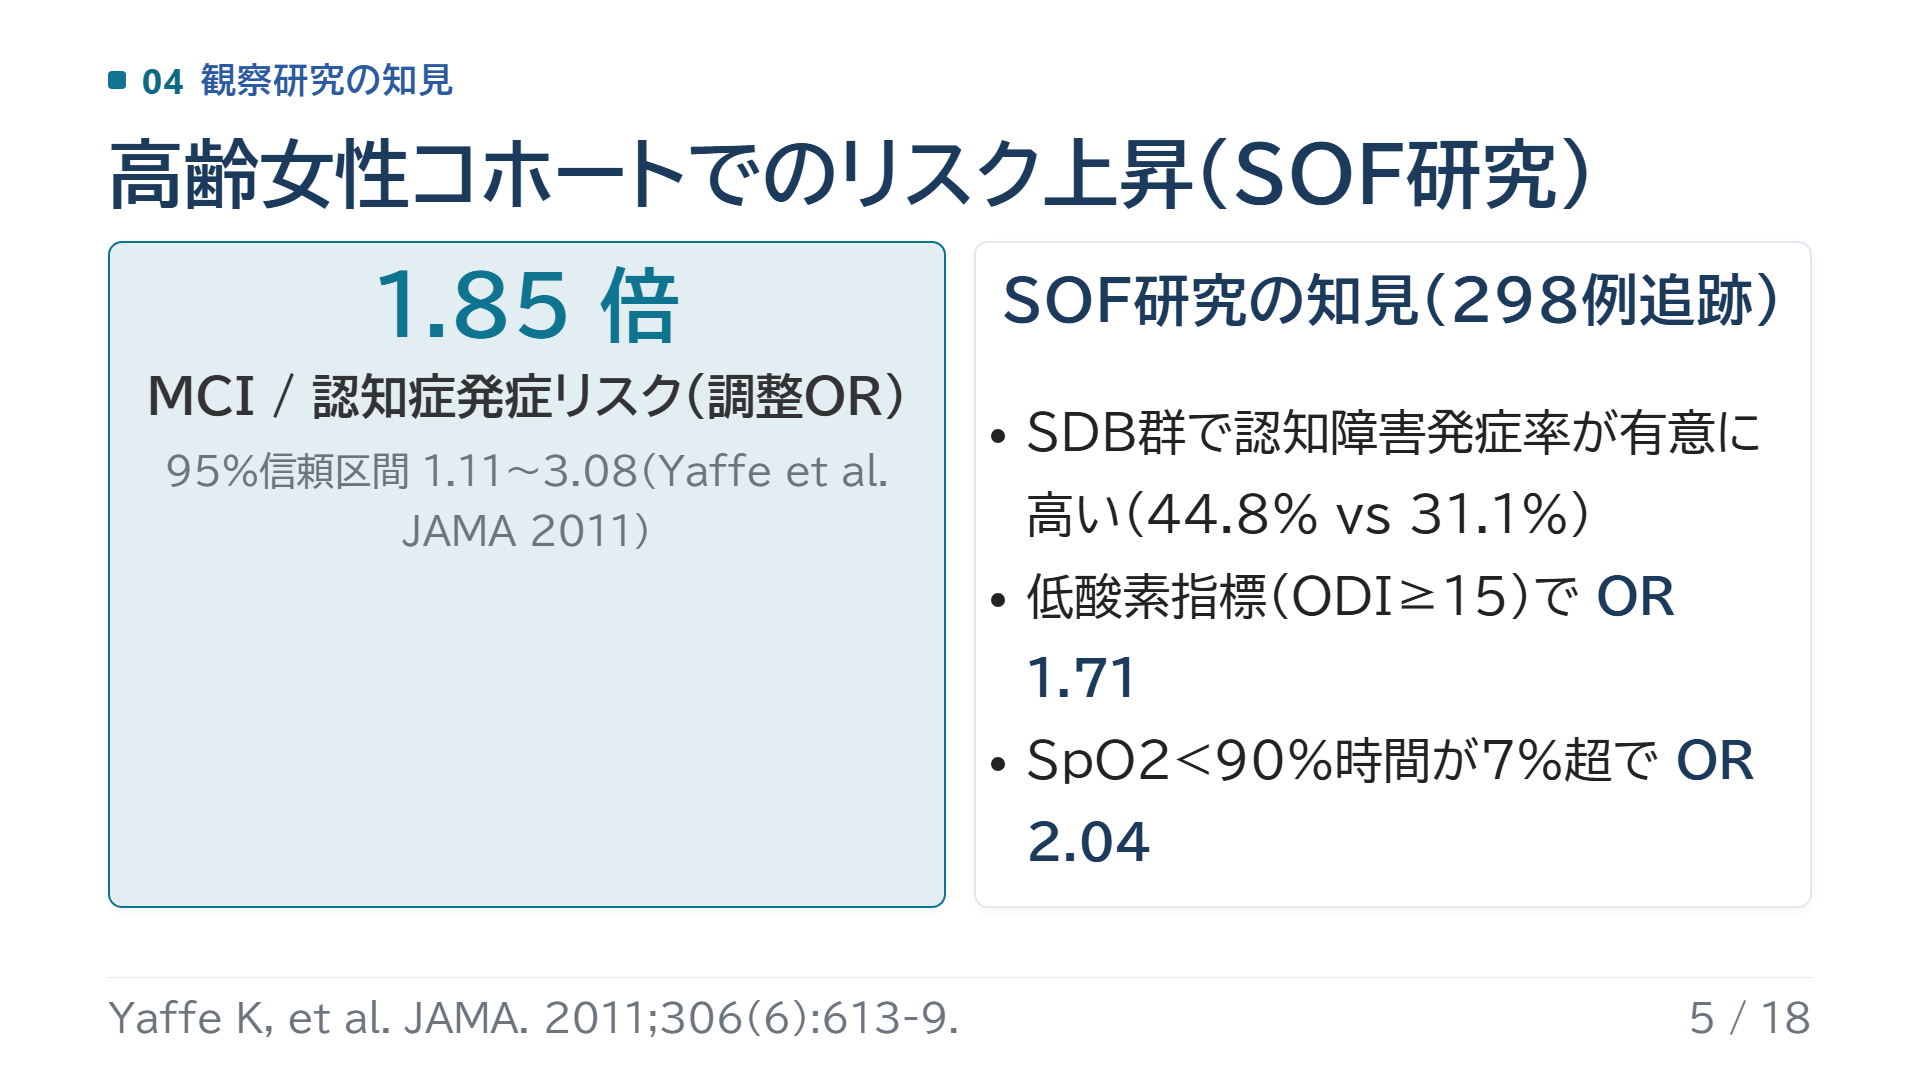
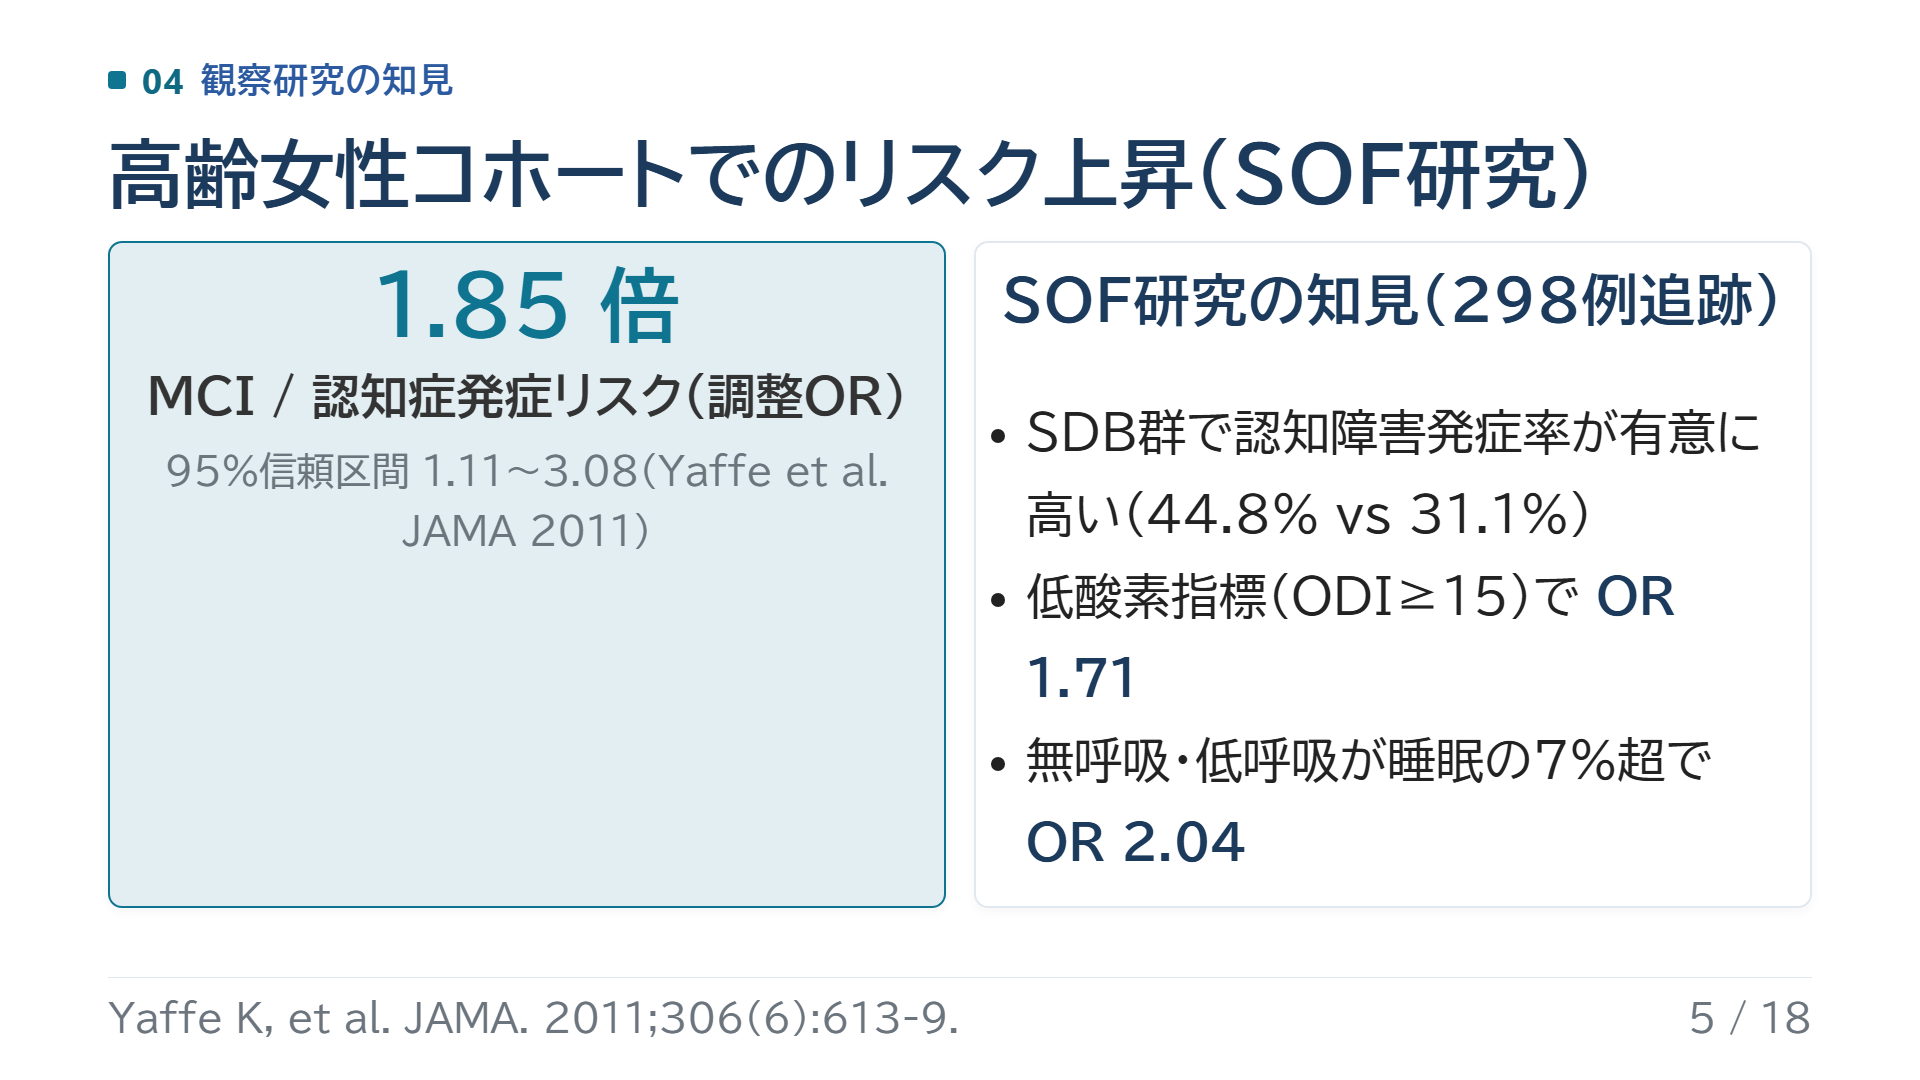
fix(dementia-sleep-apnea): Yaffe 2011 の曝露変数を原文に合わせて訂正
OR 2.04 は「睡眠時間の7%超を無呼吸・低呼吸が占める群」の値。SpO2<90%の睡眠時間は
原文で有意でない（PMC3600944）。デッキ slide 5 / ビュアー meta / インフォ HTML+PNG /
ギャラリー一覧の subtitle を訂正し、slide-05.png と slides.pdf を再書き出し。
SW CACHE_NAME v153 -> v154。

Changed region(s): [[0.5312, 0.6722, 0.9062, 0.7333], [0.5312, 0.7639, 0.6562, 0.7944]]

diff --git a/slides/dementia-sleep-apnea/index.html b/slides/dementia-sleep-apnea/index.html
@@ -4,9 +4,9 @@
 <meta charset="UTF-8">
 <meta name="viewport" content="width=device-width, initial-scale=1.0">
 <meta name="theme-color" content="#1B3A5C">
-<meta name="description" content="睡眠時無呼吸（寝ている間に呼吸が止まる病気）のある人では、その後の認知機能低下や認知症が多いと複数の観察研究が報告しています。高齢女性298例を4.7年追跡した研究では、睡眠呼吸障害がある人のMCI・認知症のオッズ比は1.85（95%CI 1.11–3.08）で、酸素飽和度が90%未満になる時間が長いほどリスクが高い傾向でした（OR 2.04・1.10–3.78）。ARIC研究の15年追跡でも重症例で粗RR 2.35（1.06–5.18）でしたが、調整後は2.19（0.92–5.19）と有意ではなくなります。では治療で防げるのか。Medicare 53,321例の観察研究ではCPAP使用群で全認知症 OR 0.69（0.55–0.85）と少なく見えます。しかし認知機能を主要評価項目にした最大のランダム化比較試験APPLES（1,105例）では、2か月時点で見えた実行機能の改善が6か月時点では有意差なし（P=0.13）でした。認知症の発症予防を証明した長期RCTは存在しません。睡眠時無呼吸はLancet 2024の認知症14の危険因子には含まれていませんが、それは「重要でない」という意味ではありません。認知症×生活習慣病シリーズ第11弾（第2期「リストの外側」編の第2弾）／全18スライド。医師・一般の両方に向けた内容です。">
+<meta name="description" content="睡眠時無呼吸（寝ている間に呼吸が止まる病気）のある人では、その後の認知機能低下や認知症が多いと複数の観察研究が報告しています。高齢女性298例を4.7年追跡した研究では、睡眠呼吸障害がある人のMCI・認知症のオッズ比は1.85（95%CI 1.11–3.08）で、無呼吸・低呼吸が睡眠時間の7%超を占める人でリスクが高い傾向でした（OR 2.04・1.10–3.78）。ARIC研究の15年追跡でも重症例で粗RR 2.35（1.06–5.18）でしたが、調整後は2.19（0.92–5.19）と有意ではなくなります。では治療で防げるのか。Medicare 53,321例の観察研究ではCPAP使用群で全認知症 OR 0.69（0.55–0.85）と少なく見えます。しかし認知機能を主要評価項目にした最大のランダム化比較試験APPLES（1,105例）では、2か月時点で見えた実行機能の改善が6か月時点では有意差なし（P=0.13）でした。認知症の発症予防を証明した長期RCTは存在しません。睡眠時無呼吸はLancet 2024の認知症14の危険因子には含まれていませんが、それは「重要でない」という意味ではありません。認知症×生活習慣病シリーズ第11弾（第2期「リストの外側」編の第2弾）／全18スライド。医師・一般の両方に向けた内容です。">
 <meta property="og:title" content="睡眠時無呼吸と認知症｜「CPAPでボケを防げる」は本当か——リスク上昇の理由と、予防効果の「現在地」 | スライド資料">
-<meta property="og:description" content="睡眠時無呼吸（寝ている間に呼吸が止まる病気）のある人では、その後の認知機能低下や認知症が多いと複数の観察研究が報告しています。高齢女性298例を4.7年追跡した研究では、睡眠呼吸障害がある人のMCI・認知症のオッズ比は1.85（95%CI 1.11–3.08）で、酸素飽和度が90%未満になる時間が長いほどリスクが高い傾向でした（OR 2.04・1.10–3.78）。ARIC研究の15年追跡でも重症例で粗RR 2.35（1.06–5.18）でしたが、調整後は2.19（0.92–5.19）と有意ではなくなります。では治療で防げるのか。Medicare 53,321例の観察研究ではCPAP使用群で全認知症 OR 0.69（0.55–0.85）と少なく見えます。しかし認知機能を主要評価項目にした最大のランダム化比較試験APPLES（1,105例）では、2か月時点で見えた実行機能の改善が6か月時点では有意差なし（P=0.13）でした。認知症の発症予防を証明した長期RCTは存在しません。睡眠時無呼吸はLancet 2024の認知症14の危険因子には含まれていませんが、それは「重要でない」という意味ではありません。認知症×生活習慣病シリーズ第11弾（第2期「リストの外側」編の第2弾）／全18スライド。医師・一般の両方に向けた内容です。">
+<meta property="og:description" content="睡眠時無呼吸（寝ている間に呼吸が止まる病気）のある人では、その後の認知機能低下や認知症が多いと複数の観察研究が報告しています。高齢女性298例を4.7年追跡した研究では、睡眠呼吸障害がある人のMCI・認知症のオッズ比は1.85（95%CI 1.11–3.08）で、無呼吸・低呼吸が睡眠時間の7%超を占める人でリスクが高い傾向でした（OR 2.04・1.10–3.78）。ARIC研究の15年追跡でも重症例で粗RR 2.35（1.06–5.18）でしたが、調整後は2.19（0.92–5.19）と有意ではなくなります。では治療で防げるのか。Medicare 53,321例の観察研究ではCPAP使用群で全認知症 OR 0.69（0.55–0.85）と少なく見えます。しかし認知機能を主要評価項目にした最大のランダム化比較試験APPLES（1,105例）では、2か月時点で見えた実行機能の改善が6か月時点では有意差なし（P=0.13）でした。認知症の発症予防を証明した長期RCTは存在しません。睡眠時無呼吸はLancet 2024の認知症14の危険因子には含まれていませんが、それは「重要でない」という意味ではありません。認知症×生活習慣病シリーズ第11弾（第2期「リストの外側」編の第2弾）／全18スライド。医師・一般の両方に向けた内容です。">
 <meta property="og:image" content="slide-01.png">
 <meta property="og:type" content="article">
 <link rel="apple-touch-icon" href="../../icons/icon-192.png">
@@ -257,7 +257,7 @@
     <a href="../">スライド一覧</a> / <a href="https://tools.ichisouzo-lab.com/">DDxツール</a>
   </div>
   <h1>睡眠時無呼吸と認知症｜「CPAPでボケを防げる」は本当か——リスク上昇の理由と、予防効果の「現在地」</h1>
-  <p class="subtitle">夜間低酸素でMCI/認知症 OR1.85（1.11–3.08）｜観察研究ではCPAP使用群で全認知症 OR0.69（0.55–0.85）｜だが最大のRCT（APPLES・1,105例）は6か月時点で有意差なし（P=0.13）</p>
+  <p class="subtitle">睡眠呼吸障害でMCI/認知症 OR1.85（1.11–3.08）｜観察研究ではCPAP使用群で全認知症 OR0.69（0.55–0.85）｜だが最大のRCT（APPLES・1,105例）は6か月時点で有意差なし（P=0.13）</p>
 </header>
 
 <div class="container">

diff --git a/slides/index.html b/slides/index.html
@@ -244,11 +244,11 @@
         <div class="deck-meta"><span class="tag">慢性腎臓病</span><span class="tag">CKD</span><span class="tag">eGFR</span><span>📊 18枚</span></div>
       </div>
     </a>
-    <a class="deck-card" href="dementia-sleep-apnea/" data-search="睡眠時無呼吸と認知症｜「cpapでボケを防げる」は本当か——リスク上昇の理由と、予防効果の「現在地」 夜間低酸素でmci/認知症 or1.85（1.11–3.08）｜観察研究ではcpap使用群で全認知症 or0.69（0.55–0.85）｜だが最大のrct（apples・1,105例）は6か月時点で有意差なし（p=0.13） 睡眠時無呼吸（寝ている間に呼吸が止まる病気）のある人では、その後の認知機能低下や認知症が多いと複数の観察研究が報告しています。高齢女性298例を4.7年追跡した研究では、睡眠呼吸障害がある人のmci・認知症のオッズ比は1.85（95%ci 1.11–3.08）で、酸素飽和度が90%未満になる時間が長いほどリスクが高い傾向でした（or 2.04・1.10–3.78）。aric研究の15年追跡でも重症例で粗rr 2.35（1.06–5.18）でしたが、調整後は2.19（0.92–5.19）と有意ではなくなります。では治療で防げるのか。medicare 53,321例の観察研究ではcpap使用群で全認知症 or 0.69（0.55–0.85）と少なく見えます。しかし認知機能を主要評価項目にした最大のランダム化比較試験apples（1,105例）では、2か月時点で見えた実行機能の改善が6か月時点では有意差なし（p=0.13）でした。認知症の発症予防を証明した長期rctは存在しません。睡眠時無呼吸はlancet 2024の認知症14の危険因子には含まれていませんが、それは「重要でない」という意味ではありません。認知症×生活習慣病シリーズ第11弾（第2期「リストの外側」編の第2弾）／全18スライド。医師・一般の両方に向けた内容です。 睡眠時無呼吸 osa cpap 認知症 認知症予防 いびき 低酸素血症 ランダム化比較試験 生活習慣病 脳神経内科">
+    <a class="deck-card" href="dementia-sleep-apnea/" data-search="睡眠時無呼吸と認知症｜「cpapでボケを防げる」は本当か——リスク上昇の理由と、予防効果の「現在地」 夜間低酸素でmci/認知症 or1.85（1.11–3.08）｜観察研究ではcpap使用群で全認知症 or0.69（0.55–0.85）｜だが最大のrct（apples・1,105例）は6か月時点で有意差なし（p=0.13） 睡眠時無呼吸（寝ている間に呼吸が止まる病気）のある人では、その後の認知機能低下や認知症が多いと複数の観察研究が報告しています。高齢女性298例を4.7年追跡した研究では、睡眠呼吸障害がある人のmci・認知症のオッズ比は1.85（95%ci 1.11–3.08）で、無呼吸・低呼吸が睡眠時間の7%超を占める人でリスクが高い傾向でした（or 2.04・1.10–3.78）。aric研究の15年追跡でも重症例で粗rr 2.35（1.06–5.18）でしたが、調整後は2.19（0.92–5.19）と有意ではなくなります。では治療で防げるのか。medicare 53,321例の観察研究ではcpap使用群で全認知症 or 0.69（0.55–0.85）と少なく見えます。しかし認知機能を主要評価項目にした最大のランダム化比較試験apples（1,105例）では、2か月時点で見えた実行機能の改善が6か月時点では有意差なし（p=0.13）でした。認知症の発症予防を証明した長期rctは存在しません。睡眠時無呼吸はlancet 2024の認知症14の危険因子には含まれていませんが、それは「重要でない」という意味ではありません。認知症×生活習慣病シリーズ第11弾（第2期「リストの外側」編の第2弾）／全18スライド。医師・一般の両方に向けた内容です。 睡眠時無呼吸 osa cpap 認知症 認知症予防 いびき 低酸素血症 ランダム化比較試験 生活習慣病 脳神経内科">
       <div class="thumb"><img src="dementia-sleep-apnea/slide-01.png" alt="" loading="lazy"></div>
       <div class="body">
         <div class="deck-title">睡眠時無呼吸と認知症｜「CPAPでボケを防げる」は本当か——リスク上昇の理由と、予防効果の「現在地」</div>
-        <div class="deck-desc">夜間低酸素でMCI/認知症 OR1.85（1.11–3.08）｜観察研究ではCPAP使用群で全認知症 OR0.69（0.55–0.85）｜だが最大のRCT（APPLES・1,105例）は6か月時点で有意差なし（P=0.13）</div>
+        <div class="deck-desc">睡眠呼吸障害でMCI/認知症 OR1.85（1.11–3.08）｜観察研究ではCPAP使用群で全認知症 OR0.69（0.55–0.85）｜だが最大のRCT（APPLES・1,105例）は6か月時点で有意差なし（P=0.13）</div>
         <div class="deck-meta"><span class="tag">睡眠時無呼吸</span><span class="tag">OSA</span><span class="tag">CPAP</span><span>📊 18枚</span></div>
       </div>
     </a>

diff --git a/infographics/dementia-sleep-apnea/index.html b/infographics/dementia-sleep-apnea/index.html
@@ -110,7 +110,7 @@ td.k{font-weight:700; color:var(--navy); width:46%;}
     <div class="big">
       <div class="big__c big--accent">
         <div class="big__n">1.85<span class="u">倍</span></div>
-        <div class="big__d"><strong>SOF研究（高齢女性298例・5年追跡）</strong><br>睡眠呼吸障害群で認知障害発症リスクが有意に上昇（調整OR 1.85, 95%CI 1.11〜3.08）。低酸素時間（SpO2&lt;90%）が長いほどリスク増大。</div>
+        <div class="big__d"><strong>SOF研究（高齢女性298例・5年追跡）</strong><br>睡眠呼吸障害群で認知障害発症リスクが有意に上昇（調整OR 1.85, 95%CI 1.11〜3.08）。低酸素の指標（ODI・無呼吸/低呼吸の時間）が多いほどリスク増大。</div>
       </div>
       <div class="big__c">
         <div class="big__n">2.35<span class="u">倍</span></div>

diff --git a/slides/dementia-sleep-apnea/deck.html b/slides/dementia-sleep-apnea/deck.html
@@ -260,7 +260,7 @@ html,body{ margin:0; background:#0c1622; }
       <ul style="font-size:var(--type-body); line-height:1.7; margin:0; padding-left:24px;">
         <li>SDB群で認知障害発症率が有意に高い（44.8% vs 31.1%）</li>
         <li>低酸素指標（ODI≥15）で <strong>OR 1.71</strong></li>
-        <li>SpO2&lt;90%時間が7%超で <strong>OR 2.04</strong></li>
+        <li>無呼吸・低呼吸が睡眠の7%超で <strong>OR 2.04</strong></li>
       </ul>
     </div>
   </div>

diff --git a/sw.js b/sw.js
@@ -1,4 +1,4 @@
-const CACHE_NAME = 'ddx-tools-v153';
+const CACHE_NAME = 'ddx-tools-v154';
 const ASSETS = [
   './slides/imaging-radiation-exposure/index.html',
   './slides/imaging-radiation-exposure/deck.html',
